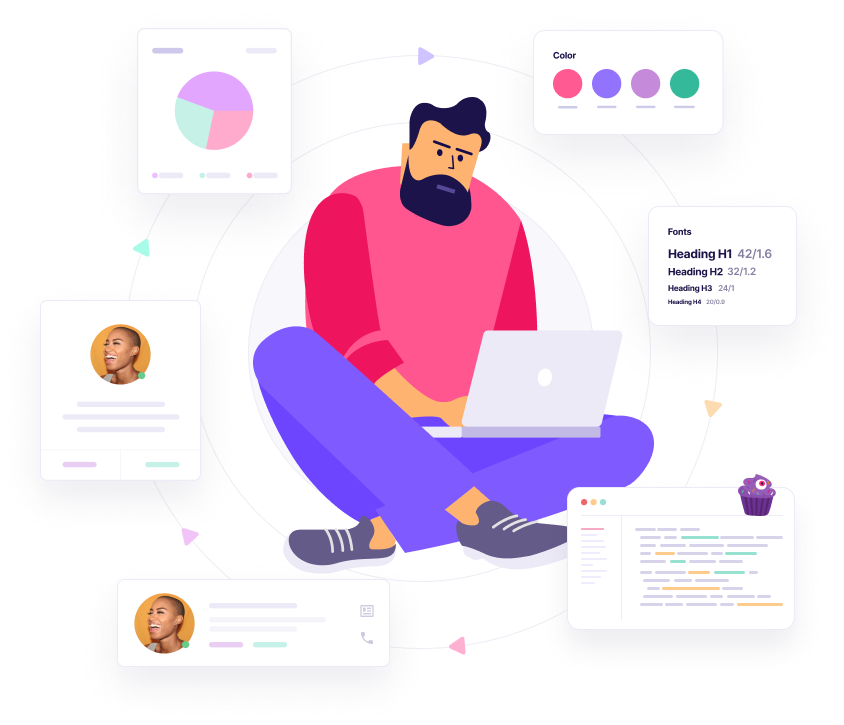
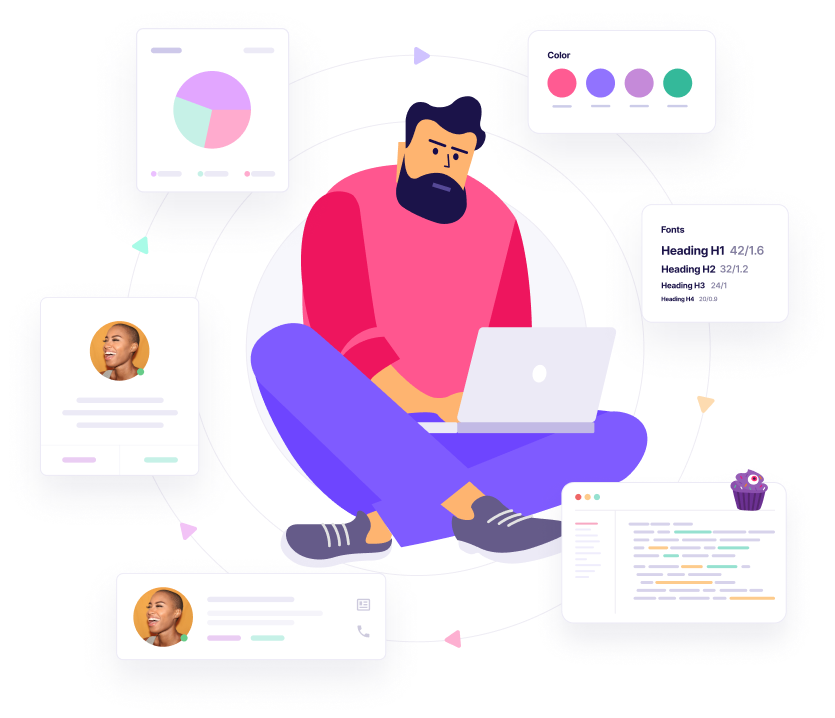
chcked responsive testing

diff --git a/src/pages/themes.html b/src/pages/themes.html
@@ -10,7 +10,7 @@
 <body>
 
     @@include("../partials/navbar.html")
-    <div class="pt-10 pb-4">
+    <div class="pt-4 pt-lg-8 pb-4">
         <div class="container">
             <div class="row text-center">
                 <div class="offset-xl-4 col-xl-4 offset-lg-3 col-lg-6 col-md-12 col-12">
@@ -23,13 +23,13 @@
         </div>
     </div>
 
-    <div class="py-10">
+    <div class="pt-8">
         <div class="container">
 
             <div class="row">
                 <div class="col-xl-6 col-lg-6 col-md-12 col-12">
                     <div class="card shadow mb-4 mb-lg-0">
-                        <a href="theme-single.html"> <img src="../assets/images/theme-placeholder-img.jpg" alt="" class="img-fluid rounded-top"></a>
+                        <a href="theme-single.html"> <img src="../assets/images/theme-placeholder-img.jpg" alt="" class="img-fluid rounded-top w-100"></a>
                         <div class="card-body p-5">
                             <div class="d-flex align-items-center">
                                 <h2><a href="theme-single.html" class="text-inherit">Geeks Application UI</a></h2>
@@ -45,7 +45,7 @@
                 </div>
                 <div class="col-xl-6 col-lg-6 col-md-12 col-12">
                     <div class="card shadow mb-4 mb-lg-0">
-                        <a href="theme-single.html"> <img src="../assets/images/theme-placeholder-img.jpg" alt="" class="img-fluid rounded-top"></a>
+                        <a href="theme-single.html"> <img src="../assets/images/theme-placeholder-img.jpg" alt="" class="img-fluid rounded-top w-100"></a>
                         <div class="card-body p-5">
                             <div class="d-flex align-items-center">
                                 <h2><a href="theme-single.html" class="text-inherit">Coach</a></h2>

diff --git a/src/pages/blog-single.html b/src/pages/blog-single.html
@@ -12,7 +12,7 @@
     @@include("../partials/navbar.html")
 
 
-    <div class="py-10">
+    <div class="pt-6 pt-lg-8 pb-4">
         <div class="container">
 
             <div class="row">
@@ -25,14 +25,14 @@
 
                     <h1 class="mb-4 display-4">Support & Help Center Bootstrap Template added in Coach Theme</h1>
 
-                    <div class="d-flex mb-8">
+                    <div class="d-flex mb-6">
                         <img src="../assets/images/avatar-1.jpg" alt="" class="avatar-md rounded-circle">
                         <div class="ml-2">
                             <h5 class="mb-0">Neena Masaba</h5>
                             <p class="small">3 September 2020</p>
                         </div>
                     </div>
-                    <a href="blog-single.html"> <img src="../assets/images/theme-placeholder-img.jpg" alt="" class="img-fluid w-100 mb-8 rounded"></a>
+                    <a href="blog-single.html"> <img src="../assets/images/theme-placeholder-img.jpg" alt="" class="img-fluid w-100 mb-5 rounded"></a>
                     <p>Lorem ipsum dolor sit amet, consectetur adipiscing elit. Nunc sit amet posuere velit, et sagittis nisi. Praesent feugiat tortor id turpis auctor placerat. Mauris at nibh justo. Aliquam lacus nibh, vestibulum quis dictum eget, vulputate
                         a velit. Donec risus nisi, tempus non aliquet eget, lobortis et neque.</p>
                     <p>

diff --git a/src/index.html b/src/index.html
@@ -13,7 +13,7 @@
     <div class="py-4 py-lg-8 ">
         <div class="container">
             <div class="row align-items-center">
-                <div class="col-xl-6 col-lg-6 col-md-12 col-12">
+                <div class="col-xl-6 col-lg-6 col-md-12 col-12 mb-4 mb-lg-0">
                     <h1 class="display-3 mb-4">Themes Built <br>for Developers.</h1>
                     <p class="lead pr-xl-14 pr-lg-11 mb-4">Component-based frameworks designed and we built the best Bootstrap themes in the world</p>
                     <a href="#" class="btn btn-secondary">Browse Theme</a>
@@ -31,7 +31,7 @@
             </div>
         </div>
     </div>
-    <div class="pt-12 pb-4">
+    <div class="pt-8 pt-lg-10 pb-4">
         <div class="container">
             <div class="row mb-14">
 
@@ -88,7 +88,7 @@
             </div>
         </div>
     </div>
-    <div class="py-10">
+    <div class="pt-4 pb-8">
         <div class="container">
             <div class="row">
                 <div class="col-xl-12 col-lg-12 col-md-12 col-12 mb-6">

diff --git a/src/pages/blog.html b/src/pages/blog.html
@@ -10,7 +10,7 @@
 <body>
 
     @@include("../partials/navbar.html")
-    <div class="pt-10 pb-4">
+    <div class="pt-6 pt-lg-8 pb-4">
         <div class="container">
             <div class="row text-center">
                 <div class="offset-xl-3 col-xl-6 offset-lg-3 col-lg-6 col-md-12 col-12 px-10">

diff --git a/src/pages/theme-single.html b/src/pages/theme-single.html
@@ -10,7 +10,7 @@
 <body>
 
     @@include("../partials/navbar.html")
-    <div class="pt-10 pb-4">
+    <div class="pt-4 pt-lg-8 pb-4">
         <div class="container">
             <div class="row ">
                 <div class="col-xl-8 col-lg-8 col-md-7 col-12 mb-4 mb-md-0">

diff --git a/src/pages/why-our-theme.html b/src/pages/why-our-theme.html
@@ -12,7 +12,7 @@
     @@include("../partials/navbar.html")
 
 
-    <div class="pt-10 pb-12">
+    <div class="pt-6 pt-lg-8 pb-8">
         <div class="container">
 
             <div class="row">

diff --git a/src/pages/about.html b/src/pages/about.html
@@ -12,7 +12,7 @@
     @@include("../partials/navbar.html")
 
 
-    <div class="py-10">
+    <div class="pt-6 pt-lg-8 pb-4">
         <div class="container">
 
             <div class="row">

diff --git a/src/pages/contact.html b/src/pages/contact.html
@@ -12,7 +12,7 @@
     @@include("../partials/navbar.html")
 
 
-    <div class="py-10">
+    <div class="pt-6 pt-lg-8 pb-4">
         <div class="container">
 
             <div class="row">
